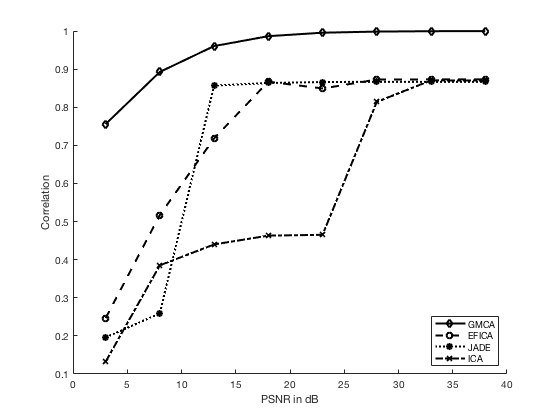
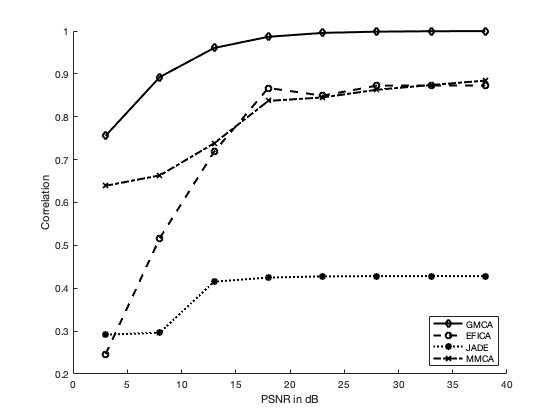
Updates from Overleaf

diff --git a/Implementation.tex b/Implementation.tex
@@ -1,4 +1,6 @@
 \section{Experiments on Image Source Separation}
+\subsection{Software}
+The software in this project is developed based on several opensource Matlab Toolboxes (i.e. WaveLab 850, K-SVD, MCALab110). Complete version of my code can be found on Github\footnote{https://github.com/Dieselmarble/FYP}. In addition, I wrote my own BS-KSVD Toolbox which involves considerable novelty.
 
 \subsection{Image Decomposition}
 In this section, we turn to use MMCA to separate two-dimensional data and compare the result with the standard ICA source separation techniques. \\
@@ -60,78 +62,94 @@ The results in this experiment proves that sparsity based methods successfully h
 \label{imapint1}
 \end{figure}
 
+\newpage
 \subsection{Blind Image Source Separation}
-GMCA is supposed to achieve better separation quality when the estimated components are 'very' sparse in the given dictionary. Therefore GMCA is supposed to perform well on separating images without distinct discrepancies. In this experiment, we mix the four source images into ten channels. The source images are picked as they contains similar morphologies. So each image are composed of linear combination of multiple morphological components. Separated images are displayed in Figure \ref{BSS_ex2_1}.\\
-
-Unfortunately the FastICA methods is not able to separate the original source. We hence adopt a sophisticated variant of it abbreviated as EFICA. All methods can distinguish the barbara inage (row 3) from the mixtures. But the ICA methods, nonetheless fail to separate the scenery photos (row 1 and 2). FastGMCA (FGMCA) uses a discrete wavelet dictionary
-
-deteriorate
+In this experiment, we mix 4 pictures into 10 channels. The source images are picked as they contains similar morphologies. Classical ICA methods and MMCA, GMCA are applied to separate the source. Unfortunately the FastICA methods is not able to separate the original source. We hence adopt a sophisticated variant of it abbreviated as EFICA. Moreover, it has been proved in \cite{BobinJ_2007SaMD} that using a single overcomplete DWT dictionary or a union of DCT and DWT dictionary in GMCA provides similar results. We therefore use a discrete wavelet dictionary in FastGMCA (FGMCA).\\
 
 
-In the robustness test, we impose guassian noise from 0dB to 30 dB. Figure X (c) and (d) are two mixed signals contaminated by 30dB noise. We can merely identify the original source from (e) and (f), but (c) and (d) using GMCA still gives acceptable result. It can also be shown in Figure X that noise has a greater effect on FastICA than GMCA. \\
+GMCA has been proved elsewhere \cite{BobinJ_2007SaMD} that it achieves better separation quality when the estimated components are 'very' sparse in the given dictionary. Therefore GMCA is supposed to perform well on separating images even without distinct discrepancies. Separated images are displayed in Figure (\ref{BSS_ex2_11}). It shows the recovered image by various BSS methods contaminated by 20dB noise. All methods can distinguish the barbara image (row 3) from the mixtures. The ICA methods, nonetheless fail to separate the scenery photos (row 1 and 2). But in (e) using GMCA still gives acceptable result. MMCA using curvelet + DCT in (d) gives better result than ICA methods, but not so good as GMCA.\\
 
 
-
-
-
-
-
-
-% ------------
+% ---------- begin figure-------------
 \begin{figure}[!htbp]
 \centering
 \subfigure[]{
-\begin{minipage}[b]{0.23\linewidth}
+\begin{minipage}[b]{0.17\linewidth}
 \includegraphics[width=1\linewidth]{images/boat_ori.png}\vspace{4pt}
 \includegraphics[width=1\linewidth]{images/paraty_ori.png}\vspace{4pt}
 \includegraphics[width=1\linewidth]{images/barbara_ori.png}\vspace{4pt}
 \includegraphics[width=1\linewidth]{images/pakhawaj_ori.png}
 \end{minipage}}
 \subfigure[]{
-\begin{minipage}[b]{0.23\linewidth}
+\begin{minipage}[b]{0.17\linewidth}
 \includegraphics[width=1\linewidth]{images/efica_out1.png}\vspace{4pt}
 \includegraphics[width=1\linewidth]{images/efica_out2.png}\vspace{4pt}
 \includegraphics[width=1\linewidth]{images/efica_out3.png}\vspace{4pt}
 \includegraphics[width=1\linewidth]{images/efica_out4.png}
 \end{minipage}}
 \subfigure[]{
-\begin{minipage}[b]{0.23\linewidth}
+\begin{minipage}[b]{0.17\linewidth}
 \includegraphics[width=1\linewidth]{images/jade_out1.png}\vspace{4pt}
 \includegraphics[width=1\linewidth]{images/jade_out2.png}\vspace{4pt}
 \includegraphics[width=1\linewidth]{images/jade_out3.png}\vspace{4pt}
 \includegraphics[width=1\linewidth]{images/jade_out4.png}
 \end{minipage}}
 \subfigure[]{
-\begin{minipage}[b]{0.23\linewidth}
+\begin{minipage}[b]{0.17\linewidth}
+\includegraphics[width=1\linewidth]{images/mmca_ex24.png}\vspace{4pt}
+\includegraphics[width=1\linewidth]{images/mmca_ex22.png}\vspace{4pt}
+\includegraphics[width=1\linewidth]{images/mmcaex21.png}\vspace{4pt}
+\includegraphics[width=1\linewidth]{images/mmca_ex23.png}
+\end{minipage}}
+\subfigure[]{
+\begin{minipage}[b]{0.17\linewidth}
 \includegraphics[width=1\linewidth]{images/gmca_out1.png}\vspace{4pt}
 \includegraphics[width=1\linewidth]{images/gmca_out2.png}\vspace{4pt}
 \includegraphics[width=1\linewidth]{images/gmca_out3.png}\vspace{4pt}
 \includegraphics[width=1\linewidth]{images/gmca_out4.png}
 \end{minipage}}
-\caption{Experiment2: image separation; \textbf{(a)}:Original image sources; \textbf{(b)}:EFICA outputs; \textbf{(c)}:JADE outputs; \textbf{(d)}:GMCA outputs }
-\label{BSS_ex2_1}
+\caption{Experiment2: image separation (20dB noise); \textbf{(a)}:Original image sources; \textbf{(b)}:EFICA outputs; \textbf{(c)}:JADE outputs; \textbf{(d)}:MMCA outputs; \textbf{(2)}:GMCA outputs.}
+\label{BSS_ex2_11}
 \end{figure}
-% -----------------------
-\begin{figure}[!tbp]
+
+% ----------end figure------------- %
+
+Figure (\ref{BSS_EV21}) portrays the evolution of average correlation coefficient over 4 estimated sources as a funciion of the noise variance. At a first glance, GMCA significantly outperforms the ICA methods interms of robustness and separation quality. JADE performs the worst in among all ICA based algorithms. Figure (\ref{BSS_EV21}) depicts the behavior of the imxing matrix criterion as the noise decreases. The mixing matrix criterion also clearly revels the strength of GMCA method.\\
+
+% ----------begin figure------------- %
+\begin{figure}[!htbp]
 \centering
 \begin{minipage}[b]{0.49\textwidth}
 \includegraphics[width=\textwidth]{images/image_separation1.png}
 \caption{Evolution of the correlation coefficient between original and estimated sources as the noise variance varies.}
+\label{BSS_EV21}
 \end{minipage}
 \begin{minipage}[b]{0.49\textwidth}
 \includegraphics[width=\textwidth]{images/image_separation2.png}
 \caption{Evolution of the mixing matrix criterion (after indeterminacy corrected) as the noise variance varies.}
+\label{BSS_EV22}
 \end{minipage}
-\label{plot21}
 \end{figure}
+% ----------end figure------------- %
 
-\newpage
+To summarise the findings in this experiment, GMCA does take good advantage of overcompleteness and morphological diversity. We can aslo claim that sparsity brings better results. Taking the advantages further, in next experiment, we explore how locally learned dictionary helps the blind source separation.\\
+
+
+\clearpage
 \subsection{Blind image separation using adaptive dictionary learning}
-In order to obtain enough training samples for dictionary learning, multiple overlapped segments (patches) of the sources are taken. To extract small overlapped patches from the source image. Here, we do not require the prior knowledge of the scaling matrix in front of the true mixing matrix [10], as otherwise required in MMCA and GMCA algorithms.\\
+In this experiment, we illustrate the results of applying the K-SVD BSS algorithm and the block-sparse BSS algorithm. Same as last experiment settings, a severe case of 4 image sources with very different morphologies was chosen to exam the performance of the methods. 400 iterations were selected as the stopping criterion, addive gaussian noise is added from 3dB to 40dB. The wavelet based GMCA is selected as the baseline algorithm.\\
 
-In addition, it is also worth noting that the SparseBSS model, using one dictionary to sparsely represent all the sources will get almost the same performance as using multiple but same-sized dictionaries when the dictionary redundancy d/n is large enough. As a result, it is reasonable to train only one dictionary for all the sources. An obvious advantage of using one dictionary is that the computational cost does not increase when the number of sources increases.\\
-\begin{figure}[h]
+In order to obtain enough training samples for dictionary learning, multiple overlapped segments (patches) of the sources are taken \cite{VAbolghasemi2012}. Choose the optimal patch size is a subtle problem. Generally, very large patches should be avoided as they lead to massive dictionaries and also provide few training samples for the dictionary learning stage. We choose $8\times 8$ patches for this experiment. Furthermore the patches are $50\%$ overlapped as suggested in \cite{VAbolghasemi2012}.\\
+
+The dictionaries obtained have size of $64\times 256$. The plots in (\ref{dictionary_learned}) have $16 \times 16 = 256$ blocks whereas each block is obtained from a $8\times 8$ patches. Figure (\ref{dictionary_learned}) also proves both the learned local dictionaries have good adaption to the corresponding sources, and significantly differnent from the standard DCT dictionary in (a).\\
+
+\begin{figure}[!htbp]
 \centering
+\subfigure[]{
+\begin{minipage}[b]{0.99\linewidth}
+\centering
+\includegraphics[width=0.23\linewidth]{images/DCT_dict.png}\vspace{4pt}
+\end{minipage}}
 \subfigure[]{
 \begin{minipage}[b]{0.99\linewidth}
 \includegraphics[width=0.23\linewidth]{images/dic1.png}\vspace{4pt}
@@ -141,19 +159,31 @@ In addition, it is also worth noting that the SparseBSS model, using one diction
 \end{minipage}}
 \subfigure[]{
 \begin{minipage}[b]{0.99\linewidth}
-\includegraphics[width=0.23\linewidth]{images/DCT_dict.png}\vspace{4pt}
-\includegraphics[width=0.23\linewidth]{images/DCT_dict.png}\vspace{4pt}
-\includegraphics[width=0.23\linewidth]{images/DCT_dict.png}\vspace{4pt}
-\includegraphics[width=0.23\linewidth]{images/DCT_dict.png}
+\includegraphics[width=0.23\linewidth]{images/block_dict1.png}\vspace{4pt}
+\includegraphics[width=0.23\linewidth]{images/blockdict2.png}\vspace{4pt}
+\includegraphics[width=0.23\linewidth]{images/blockdict3.png}\vspace{4pt}
+\includegraphics[width=0.23\linewidth]{images/blockdict4.png}
 \end{minipage}}
 % \vspace{-0.5cm} 
-\caption{Trained Dictionary using K-SVD}
+\caption{(a): A standard discrete cosine (DCT) dictionary; (b): Trained dictionary using K-SVD for sources 1,2,3,4 respectively; (b): Trained dictionary using SAC+BK-SVD for the 4 sources.}
+\label{dictionary_learned}
 \end{figure}
 
-% --------------------- %
-\begin{figure*}
+Figure (\ref{apt_compare}) compares the separation results
+using several algorithm under 20dB Gaussian noise. \\
+
+
+% ---------begin figure ------------ %
+\begin{figure*}[!htbp]
 \centering
 \subfigure[]{
+\subfigure[]{
+\begin{minipage}[b]{0.23\linewidth}
+\includegraphics[width=1\linewidth]{images/boat_ori.png}\vspace{4pt}
+\includegraphics[width=1\linewidth]{images/paraty_ori.png}\vspace{4pt}
+\includegraphics[width=1\linewidth]{images/barbara_ori.png}\vspace{4pt}
+\includegraphics[width=1\linewidth]{images/pakhawaj_ori.png}
+\end{minipage}}
 \begin{minipage}[b]{0.23\linewidth}
 \includegraphics[width=1\linewidth]{images/gmca_out1.png}\vspace{4pt}
 \includegraphics[width=1\linewidth]{images/gmca_out2.png}\vspace{4pt}
@@ -167,5 +197,28 @@ In addition, it is also worth noting that the SparseBSS model, using one diction
 \includegraphics[width=1\linewidth]{images/ammca_out3.png}\vspace{4pt}
 \includegraphics[width=1\linewidth]{images/ammca_out1.png}
 \end{minipage}}
-\caption{Experiment3: Using adaptive dictionary learning; \textbf{(a)}:Original image sources; \textbf{(b)}:GMCA outputs; \textbf{(c)}:K-SVD+MMCA outputs;}
+\subfigure[]{
+\begin{minipage}[b]{0.23\linewidth}
+\includegraphics[width=1\linewidth]{images/bk3.png}\vspace{4pt}
+\includegraphics[width=1\linewidth]{images/bk1.png}\vspace{4pt}
+\includegraphics[width=1\linewidth]{images/bk2.png}\vspace{4pt}
+\includegraphics[width=1\linewidth]{images/bk4.png}
+\end{minipage}}
+\caption{Experiment 3 (20dB): Using adaptive dictionary learning; \textbf{(a)}: original sources; \textbf{(b)}:GMCA outputs; \textbf{(c)}:K-SVD+MMCA output; \textbf{(d)}:BK-SVD+SAC+MMCA outputs;}
+\label{apt_compare}
 \end{figure*}
+% ---------end figure ------------ %
+
+The running time for K-SVD BSS algorithm is 221 seconds. However the running time for BK-SVD BSS algorithm is 389 seconds. For Fast GMCA it is only 4 seconds. This coincides our deduction before, the sparse agglomerative clustering algorithm dominates the complexity. Even though the BK-SVD algorithm is supposed to be faster than K-SVD, but the clustering stage slows down the overall process. It is also seen that, due to learning the dictionary, making both algorithms are computationally demanding for large scale applications (i.e. image processing) and are much slower than the GMCA algorithm \\
+% --------------begin table ----------- %
+\begin{table}[!htbp]
+\centering
+    \begin{tabular}{|c|c|c|c|}
+    \hline
+    MMCA & Fast GMCA & K-SVD & BK-SVD+SAC \\\hline
+    $221s$ & $4s$ & $221s$ & $389s$ \\\hline
+    \end{tabular}
+    \caption{Running time for GMCA, KSVD and SAC+BK-SVD}
+\end{table}
+% --------------end table ----------- %
+ 

diff --git a/background.tex b/background.tex
@@ -141,7 +141,7 @@ JADE is based on similar ideas of the FastICA agorithm apart from it calculates 
 ICA suffers from several limitations which make it unsuitable in some specific applications. Firstly, ICA require the mixing matrix $\mathbf{A}$ to be full rank and square. As we mentioned in the introdcution, generally ICA cannot be applied to the underdetermined mixing scenario. Secondly, ICA also assumes that amongst the components in $\mathbf{s}$, there exists at most one component that is Gaussian. This means ICA is not robust under the additive Gaussian nosie setting. While even implicit, the ICA algorithm requires information on the source distribution when doing separating computation such as maximum likelihood estimation, making it hard for model generalisation. We will exam the limitations of ICA in future simulations.
 
 \subsection{Sparse representations of signals}
-Here we introduces the idea of sparse signal processing and how it helps to solve underdetermined linear systems. However we need to discriminate the expression from the underdetermined system mentioned in previous parts. In BSS, `underdetermined system' means linear combination of source signals while here we refer to further linearly decompose the source signals into a given dictionary. Sparse signal processing has numerous applications in compress sensing, image deniosing and super-resulation reconstrcution.
+Here we introduces the idea of sparse signal processing and how it helps to solve underdetermined linear systems (dictionary). However we need to discriminate the expression from the underdetermined system mentioned in previous parts. In BSS, `underdetermined system' means linear combination of \textbf{source signals} while here we refer to further linearly decompose the source signals into a given \textbf{dictionary}. In a more plain language, less number of examples than the data dimensionality involved are available for learning the dictionary. Sparse signal processing has numerous applications in compress sensing, image deniosing and super-resulation reconstrcution.
 
 \subsubsection{Overcomplete dictionary}
 \label{over_dict}
@@ -234,12 +234,21 @@ Each morphological components $S_k$\\
 \end{algorithm}
 
 \subsubsection{Mutichannel morphological component analysis (MMCA)}
-In this section, we extend the monochannel sparse decomposition problem described and characterized in last section to multichannel data. In the MMCA setting, we assumed that the sources $\mathbf{S}$ in Equation (\ref{mixing}) have strictly different morphologies (i.e. each source $s_i$ is assumed to be strictly sparsely represented in one particular orthonormal basis $\mathbf{\Phi}_i$) \cite{BobinJ_2007SaMD}. An iterative thresholding Block-Coordinate Relaxation algorithm similar to Algorithm (\ref{algFramwork1}) was proposed to solve the joint optimisation problem below.
+In this section, we extend the monochannel sparse decomposition problem described and characterized in last section to multichannel data. In the MMCA setting, we assumed that the sources $\mathbf{S}$ in Equation (\ref{mixing}) have strictly different morphologies (i.e. each source $s_i$ is assumed to be strictly sparsely represented in one particular orthonormal basis $\mathbf{\Phi}_i$) \cite{BobinJ_2007SaMD}. Figure \ref{illu_mca_and_gmca} precisely reveals the difference between MCA and MMCA. The top observation can be strictly divided in to texture and gaussian parts whereas the bottom multichannel observations are complex combinations of curvelets and texure components.\\
+
+\begin{figure}[!htbp]
+\centering
+\includegraphics[width=0.7\textwidth]{images/mca_gmca.png}
+\caption{Illustration of the image decomposition(top) using MCA and the blind source separation (bottom) using GMCA. For the bottom part, each source is itself a mixture of morphological components(texture and cartoon)}
+\label{illu_mca_and_gmca}
+\end{figure}
+
+An iterative thresholding Block-Coordinate Relaxation algorithm similar to Algorithm (\ref{algFramwork1}) was proposed to solve the joint optimisation problem below.
 \begin{equation}
     \{\mathbf{\tilde{A},\tilde{S}}\} = \text{Arg} \: \min_{\mathbf{A},\mathbf{S}}\sum_{k=1}^N \lVert s_k \mathbf{\Phi}_k^T \rVert_{1} + \lambda \:\lVert \mathbf{X} - \mathbf{AS} \rVert^2_2
     \label{MMCAequation}
 \end{equation}
-The equation above is very similar to Equation (\ref{MCAequation}) in MCA. Unfortunately, this MMCA criterion suffers from several drawbacks and particularly from an indeterminacy attached to the model structure \cite{BobinJ_2007SaMD}. For instance, the minimisation of this criterion may result in trivial solutions : $\mathbf{A} = \rho \mathbf{A}$ and $\mathbf{S} = \frac{1}{\rho} \mathbf{S}$ (the sparsity term can be minimised as desired as long as $\rho$ tends to $+\infty$) \cite{BobinJ_2007SaMD}. We therefore normalise the columns in matrix $\mathbf{A}$ at each iteration, as mentioned in Chapter \ref{ambiguitiesBSS}.
+The equation above is very similar to Equation (\ref{MCAequation}) in MCA. Unfortunately, this MMCA criterion suffers from several drawbacks and particularly from an indeterminacy attached to the model structure \cite{BobinJ_2007SaMD}. For instance, the minimisation of this criterion may result in trivial solutions : $\mathbf{A} = \rho \mathbf{A}$ and $\mathbf{S} = \frac{1}{\rho} \mathbf{S}$ (the sparsity term can be minimised as desired as long as $\rho$ tends to $+\infty$) \cite{BobinJ_2007SaMD}. We therefore normalise the columns in matrix $\mathbf{A}$ at each iteration, as mentioned in Chapter \ref{ambiguitiesBSS}.\\
 
 Let's introduce the $k^{\text{th}}$ channel residual $D_k = X - \sum_{j \neq k}a^j s_{j}$ (accounts for the part of that data unexplained by the other couples $\{a^j, s_j\}j \neq k$), the minimisation of the whole criterion (\ref{MMCAequation}) is equivalent to this joint minimisation problem.
 \begin{equation}
@@ -258,7 +267,7 @@ Zero the garident with respect to $s_k$ and $a^k$ leads to the following coupled
        a^k = \frac{1}{s_ks_k^T}D_k s_k^T
     \end{cases}
 \end{equation}
-We then use the soft thresholding algorithm to solve for approximation of $s_k$ and $a_k$. Setting the threshold $\delta = \frac{\lambda_k}{2\lVert a^k\Gamma^{-1}a^k \rVert}$. Then considering a fixed $s_k$, the update on $a_k$ follows a simple least square linear regression.
+We then use the soft thresholding algorithm to solve for approximation of $s_k$ and $a_k$. Setting the threshold $\delta = \frac{\lambda_k}{2\lVert a^k\Gamma^{-1}a^k \rVert}$. Then considering a fixed $s_k$, the update on $a_k$ follows a simple least square linear regression.\\
 
 \begin{algorithm}[!htbp] 
 \caption{ The numerical algorithm for MMCA} 
@@ -298,15 +307,6 @@ The product $\mathbf{AS}$ can be split into $n\times D$ multichannel morphologic
     \tilde{\varphi}_{ik} = \text{arg} \; \min_{\{\varphi_{ik}\}} \lVert \varphi_{ik}\mathbf{\Phi}_k^T\rVert_{1} + \lambda \; \lVert \mathbf{X}_{i,k} - a^i\varphi_{ik}\rVert_2^2
 \end{equation}
 Similarly to MMCA, GMCA uses the component-wise iterative thresholding algorithm which is summarized as follows. Note the difference notations of morphological components coefficients $\alpha_{ik}$ and mixing matrix coefficients $a^i$.\\
-
-Figure \ref{illu_mca_and_gmca} the top parts can be strictly divided in to texture and gaussian parts whereas the two bottom images are complex combination of curvelets and texure components.
-
-\begin{figure}[!htbp]
-\centering
-\includegraphics[width=0.9\textwidth]{images/mca_gmca.png}
-\caption{Illustration of the image decomposition(top) using MCA and the blind source separation (bottom) using GMCA. For the bottom part, each source is itself a mixture of morphological components(texture and cartoon)}
-\label{illu_mca_and_gmca}
-\end{figure}
 
 \begin{algorithm}[!htbp] 
 \caption{ The numerical algorithm for GMCA.} 
@@ -439,18 +439,13 @@ Estimation $\hat{\mathbf{A}}$ and $\hat{\mathbf{S}}$.
 \end{algorithm}
 
 
-\subsection{Further research directions in MCA based BSS}
+\subsection{Further research directions in sparsity based BSS}
 In this section, we point out several challenges in recent blind source separation research, and anticipate the further research directions.\\
 \begin{itemize}
     \item Dictionary Selection for morphological component analysis was empirical. The prevailing dictionaries include wavelets, discrete cosine, ridgelet, curvelet and their derivatives. Due to the complex nature of images, methodology of selecting appropriate dictionary for different  morphological diversities is critical.
     \item Develop effective redundant multiscale transformations. The key to MCA dictionary is that the dictionary has a fast way of calculating them. For instance, the sceond generation curvelets transform outperforms the traditional curvelets in terms of speed and comlexity.
     \item Establish effective numerical optimisation algorithm and improve the convergence of such an algorithm. Most MCA techniques of estimating the mixing matrix $\mathbf{A}$ and $\mathbf{S}$ are based on the iterative thresholding method. Generally, we need to improve the concurrent iterative thresholding methods by enhancing the adaptivity and the convergence rate.
 \end{itemize}
-
-\subsection{Software}
-The software in this project is developed based on several opensource Matlab Toolboxes (i.e. WaveLab 850, K-SVD, MCALab110). Complete version of my code can be found on Github\footnote{https://github.com/Dieselmarble/FYP}. In addition, I wrote my own BS-KSVD Toolbox which involves considerable novelty.
-
-
 
 \subsection{Summary of this Section}
 This chapter has considered the BSS methods which will be used in next stage of this project. Firstly, the linear instantaneous model was introduced and BSS assumptions were stated. We then introduced performance metrics to evaluate the performances of various BSS algorithms. The problem was then extended to the case of sparsity where morphological component analysis is discussed. Finally, we foresee the future research trends in morphological component analysis based blind source separation. Inspirations are acquired from the future research trends so that I can propose my own research direction.

diff --git a/bs-ksvd.tex b/bs-ksvd.tex
@@ -1,0 +1,89 @@
+\section{Block Sparse K-SVD algorithm applied to BSS}
+Last section proves the strength of sparsity based methods applied to blind source separation problem. Inspired by using adaptively learned local dictionary in MMCA/GMCA, we aim to create a new adaptive dictionary learning algorithm combined with BSS. The idea driven behind is simple that, certainly will we acquire a better separation result if we improve the level of sparsity of the dictionary,.\\
+
+A variety of sparse dictionary learnging algorithm have been proposed in the literature for this purpose, based on the K-SVD algorithm. The block-sparse dictionary learning algorithm is proposed by Lihi in \cite{dictionary_block_sparse}. It exploits the hidden structure that is intrinsic in the signals for producing more efficient sparse representations. In the following content, we introduce the theory of this algorithm and try to embed it in the BSS process. \\
+
+\subsection{Problem definition}
+Given a set of signals $\mathbf{Y} = \{y_i\} \in R^N$, we wish to find an overcomplete dictionary $\mathbf{\Phi} \ in R^{N\time K}$ whose atoms are sorted in blocks, correspondly the non-zero coefficients representations $\mathbf{X} = \{x_i\}$ are concentrated in a fixed number of blocks. More specifically, suppose dictionary atoms sorted in blocks that enable \textbf{block-sparse} representations of input signals. Each block has its own label, indexed as $d_i$. We claim that a vector $\mathbf{X}\in R^K$ is $k$-block-sparse over $d$ if its non-zero entries are concentrated in $k$ blocks only. This is denoted by 
+\begin{equation}
+    ||x||_{0,d} = k
+\end{equation}
+which means there are $k$ number of non-zero blocks having block structure $d$. Figure \ref{block_dict_compare} presents two equivalent examples, The dictionary can be expressed as 5 blocks but with 2-block-sparse presentations.\\
+
+\begin{figure}[!htbp]
+\centering
+\includegraphics[width=0.7\textwidth]{images/block_dict_compare.png}
+\caption{Two equivalent representations with different block structure.}
+\label{block_dict_compare}
+\end{figure}
+
+We can now formulate the problem is a mathematical way that we intent to find a dictionary $\mathbf{\Phi}$ and a block structure d, with maximal block size s, that lead to optimal k-block sparse representations $\mathbf{X} = \{x_i\}^L_i=1 $ for signals in $\mathbf{Y}$. The objective function is given as below.\\
+\begin{equation}
+\begin{aligned} 
+    \min_{D,d,\mathbf{X}} ||\mathbf{Y} -\mathbf{\Phi}\mathbf{X}||\\
+    \text{s.t.} \quad ||x_i||_{0,d} \leq k, \; i = 1,...L\\
+    |d_j| \leq s, \; j = 1,....B
+    \label{bskvsd_1}
+\end{aligned}
+\end{equation}
+
+where $d_j$ is the set of indices belonging to block $j$, $s$ is the maximum block size and $B$ is
+is the total number of blocks (number of dictionary columns divided by the block size). When the maximal block size is set to 1, the proposed algorithm reduces to normal K-SVD.\\
+
+
+\subsection{Algorithm Preview}
+Like other optimisation problems in previous sections, the problem in Equation \ref{bskvsd_1} is a nonconvex. We therefore adopt the coordinate relaxation technique. The initail dictionary can be set up as a DCT dictionary or any random collection of $K$ signals. Then the block structure is solved by the \textit{sparse aggolmerative clustering} (SAC) algorithm\cite{Johnson1967}. Agglomerative clustering is a `bottom-up' approach who groups according to distance metric (e.g. $\ell_0$ norm).\\
+
+SAC algorithm solves for an optimal block structure refer to input command ($k$ and $s$) while keeping the dictionary fixed.
+
+\begin{equation}
+\begin{aligned}
+    \left[d^{(m)}, \;\mathbf{\Phi}^{(m)}\right] = \text{arg} \; \min_{X,d} \quad || \mathbf{Y} - \mathbf{\Phi}^{(m-1)}\mathbf{X}||_2 \\
+    \text{s.t.} \quad ||x_i||_0,d \leq k, \quad i = 1,...,L\\
+    |d_j| \leq s, \; j = 1,....B
+\end{aligned}
+\end{equation}
+
+After having successfully recovered the optimal block structure. We then solve for new dictionary while keeping $d^{m}$ fixed. The objective function becomes.
+\begin{equation}
+\begin{aligned}
+    \left[\mathbf{X}^{(m)}, \;\mathbf{\Phi}^{(m)}\right] = \text{arg} \; \min_{\Phi,X} \quad || \mathbf{Y} - \mathbf{\Phi}^{(m-1)}\mathbf{X}||_2 \\
+    \text{s.t.} \quad ||x_i||_0,d \leq k, \quad i = 1,...,L
+\end{aligned}
+\label{BKSVD1}
+\end{equation}
+The author in \cite{dictionary_block_sparse} proposed \textit{block K-SVD} (BK-SVD), a natural extension of the K-SVD algorithm to solve (\ref{BKSVD1}). BK-SVD algorithm employs a similar columnwise atom updating manner as in K-SVD but forces the learned dictionary to have higher sparsity level.\\
+
+We first fix $\mathbf{\Phi}^{m-1}$ and can use any pursuit method (e.g. OMP) to solve (\ref{BKSVD1}) which reduces to.
+
+\begin{equation}
+\begin{aligned}
+    \mathbf{X}^{(m)} = \text{arg} \; \min_X \quad || \mathbf{Y} - \mathbf{\Phi}\mathbf{X}^{(m-1)}||_2 \\
+    \text{s.t.} \quad ||x_i||_0,d \leq k, \quad i = 1,...,L
+\end{aligned}
+\end{equation}
+
+Then, to obtain $\mathbf{\Phi}^{(m)}$, fix $\mathbf{X}^{(m)}$, $d$ and $\mathbf{Y}$. The calculation procedure is same as K-SVD, where the blocks in the dictionary is updated sequentially, alongside with the corresponding nonzero coefficients in $\mathbf{X}^{(m)}$.\\
+
+The complexity of BKSVD requires $b_s$ times less number of SVD computations than the KSVD algorithm. Their for the convergence rate of BKSVD is significantly faster than KSVD. As proved in \cite{OMP_KSVD}, K-SVD algorithm has a complexity of $O((k)^2K + 2NK)$. Because of the block nature of BK-SVD, we expect BK-SVD to have a complexity of $O((k)^2K + 2NK)$, where $k$ is the sparsity level (number of sparse blocks) and $s$ is the maximal block size.\\
+
+We have now introduced the whole block sparse dictionary learning algorithm. The overall framework of SAC+BK-SVD is summarised below,
+\begin{algorithm}[!htbp] 
+\caption{Block-sparse Dictionary Update}
+\label{alg:Framwork} 
+\begin{algorithmic}
+\REQUIRE ~~\\%Input
+The input signal $\mathbf{Y}$, block sparsity level $k$, and maximal block size $s$.\\
+\ENSURE ~~\\ %Output
+Learned Dictionary $\mathbf{\Phi}$ with optimal block struture $d$.\\
+--------------------------------------------------------\\
+\STATE 1. Initialise the dictionary $D(0)$ as the outcome of K-SVD.\\
+\STATE 2. For $N$ number of iterations.\\
+\STATE \quad - Fix dictionary $\mathbf{\Phi}^{(m-1)}$ and update coefficients $x^{m}$ and block structure $d^{(m)}$ by applying sparse agglomerative clustering.\\
+\STATE \quad - Fix the block structure $d^(m)$ and update the dictionary atoms $\mathbf{\Phi}^{(m)}$ by applying BS-SVD.\\
+\end{algorithmic}
+\end{algorithm}
+
+\subsection{Complexity Analysis}
+The standard algorithm for hierarchical agglomerative clustering has a time complexity of ${\displaystyle {\mathcal {O}}(K^{3})}$ (K is the number of dictionary atoms in this occasion). which makes it too slow for even medium data sets.
+\clearpage

diff --git a/futurework.tex b/futurework.tex
@@ -1,0 +1,1 @@
+In addition, it is also worth noting that the SparseBSS model, using one dictionary to sparsely represent all the sources will get almost the same performance as using multiple but same-sized dictionaries when the dictionary redundancy d/n is large enough. As a result, it is reasonable to train only one dictionary for all the sources. An obvious advantage of using one dictionary is that the computational cost does not increase when the number of sources increases.\\

diff --git a/includes.tex b/includes.tex
@@ -60,7 +60,7 @@
 \usepackage{algorithm}
 \usepackage{algorithmic}
 \renewcommand{\algorithmicrequire}{ \textbf{Input:}} %Use Input in the format of Algorithm
-% \renewcommand{\algorithmicensure}{ \textbf{Output:}} %UseOutput in the format of Algorithm
+\renewcommand{\algorithmicensure}{ \textbf{Output:}} %UseOutput in the format of Algorithm
 \usepackage{abstract}
 
 

diff --git a/thesis.tex b/thesis.tex
@@ -17,10 +17,14 @@
 \newpage
 \input{background}
 \newpage
+\input{bs-ksvd}
+\newpage
 \input{Implementation}
 \newpage
 \input{DigitalWatermark}
-
+\newpage
+\input{futurework.tex}
+\newpage
 \input{Conclusion}
 \newpage
 \bibliography{citations}
